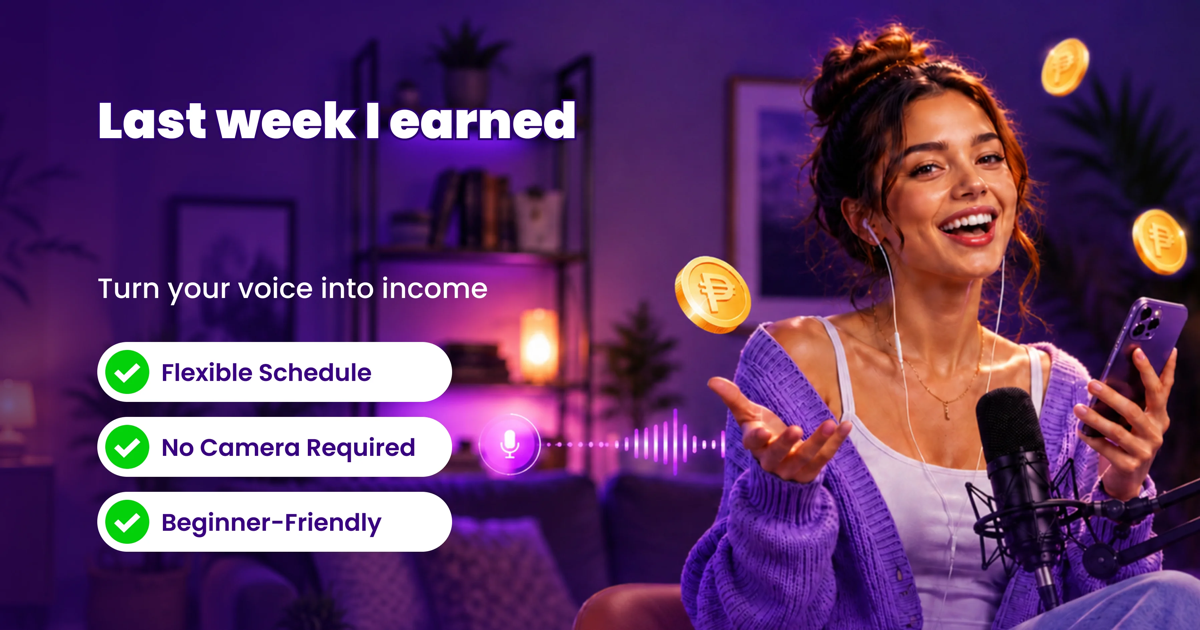
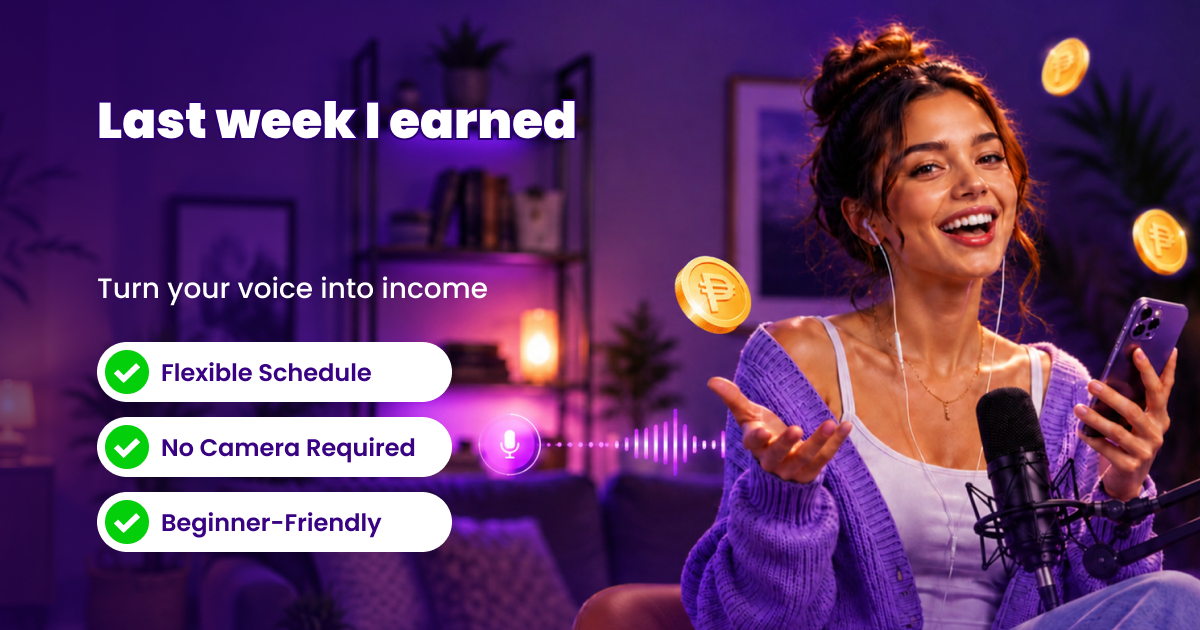
feat: 提高分享图的清晰度

diff --git a/index.html b/index.html
@@ -24,14 +24,14 @@
     <!-- Facebook 分享卡片描述。 -->
     <meta property="og:description" content="Join us, no face cam needed — stream from home and make money." />
     <!-- 分享主图建议 1200 x 630，且生产环境应使用绝对 HTTPS URL。 -->
-    <meta property="og:image" content="/share/facebook-share.webp" />
+    <meta property="og:image" content="/share/facebook-share-og.png" />
     <!-- HTTPS 图片可设置 secure_url；本地相对路径仅用于开发占位。 -->
-    <meta property="og:image:secure_url" content="/share/facebook-share.webp" />
+    <meta property="og:image:secure_url" content="/share/facebook-share-og.png" />
     <!-- 图片类型；如果替换为 jpg/png/webp，需要同步调整。 -->
-    <meta property="og:image:type" content="image/webp" />
+    <meta property="og:image:type" content="image/png" />
     <!-- 图片尺寸帮助 Facebook 更快生成稳定预览。 -->
-    <meta property="og:image:width" content="3600" />
-    <meta property="og:image:height" content="1890" />
+    <meta property="og:image:width" content="1200" />
+    <meta property="og:image:height" content="630" />
     <!-- 图片替代文本，用于无障碍和素材语义说明。 -->
     <meta property="og:image:alt" content="Facebook Share preview image" />
     <!-- 页面语言区域。 -->

diff --git a/src/config/facebookShare.ts b/src/config/facebookShare.ts
@@ -13,7 +13,7 @@ function toAbsoluteUrl(pathOrUrl: string) {
  * 运行后再修改 meta 标签，通常无法保证被 Facebook 爬虫读取。
  */
 const searchParams = new URLSearchParams(window.location.search)
-const defaultShareImage = toAbsoluteUrl('share/facebook-share.webp')
+const defaultShareImage = toAbsoluteUrl('share/facebook-share-og.png')
 const hasQueryParams = searchParams.size > 0
 
 export const facebookShareConfig = {
@@ -52,15 +52,15 @@ export const facebookShareConfig = {
   /**
    * 分享图片 MIME 类型。
    */
-  imageType: hasQueryParams ? 'image/png' : 'image/webp',
+  imageType: 'image/png',
 
   /**
    * 分享图片尺寸。
    *
    * `og:image:width` 和 `og:image:height` 可以帮助 Facebook 更快确定预览图比例。
    */
-  imageWidth: hasQueryParams ? '1200' : '3600',
-  imageHeight: hasQueryParams ? '630' : '1890',
+  imageWidth: '1200',
+  imageHeight: '630',
 
   /**
    * 分享图片的替代文本。

diff --git a/functions/facebook/og.png.jsx b/functions/facebook/og.png.jsx
@@ -33,7 +33,7 @@ function getCoinTokens(coin) {
 export async function onRequest({ request }) {
   const url = new URL(request.url)
   const coin = (url.searchParams.get('coin') || '').replace(/\D/g, '')
-  const backgroundImage = new URL('/share/facebook-share.webp', request.url).href
+  const backgroundImage = new URL('/share/facebook-share-og.png', request.url).href
   const unitImage = new URL('/share/unit.svg', request.url).href
   const coinTokens = getCoinTokens(coin).filter((token) => token === 'point' || token in digitWidths)
 
